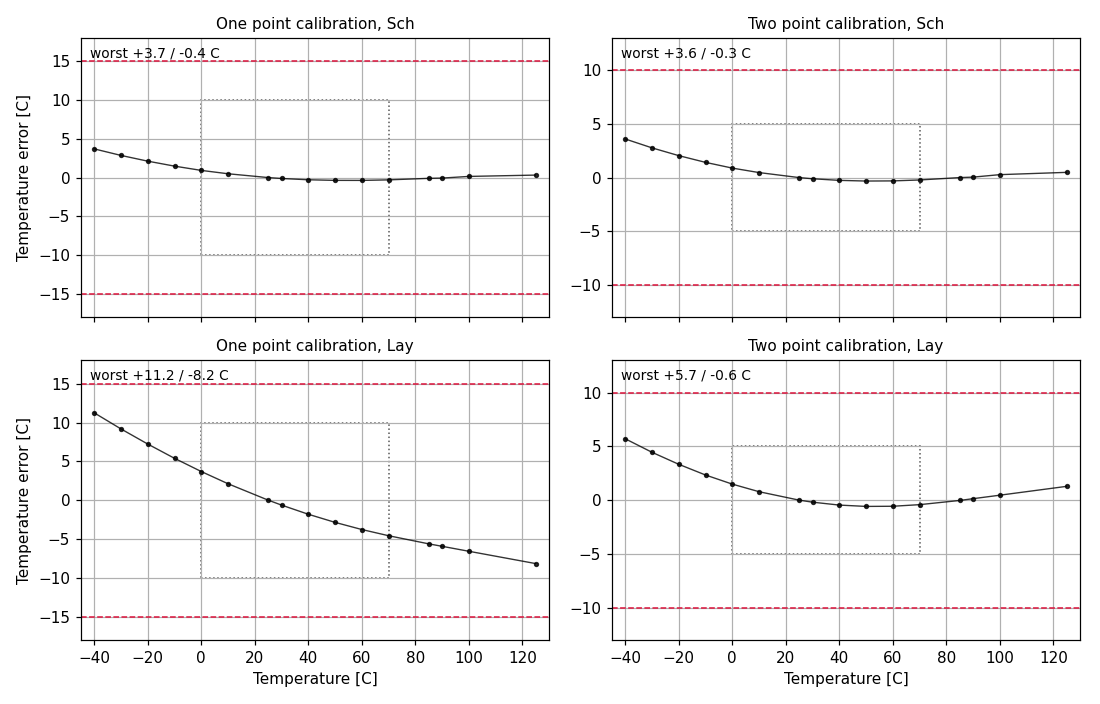
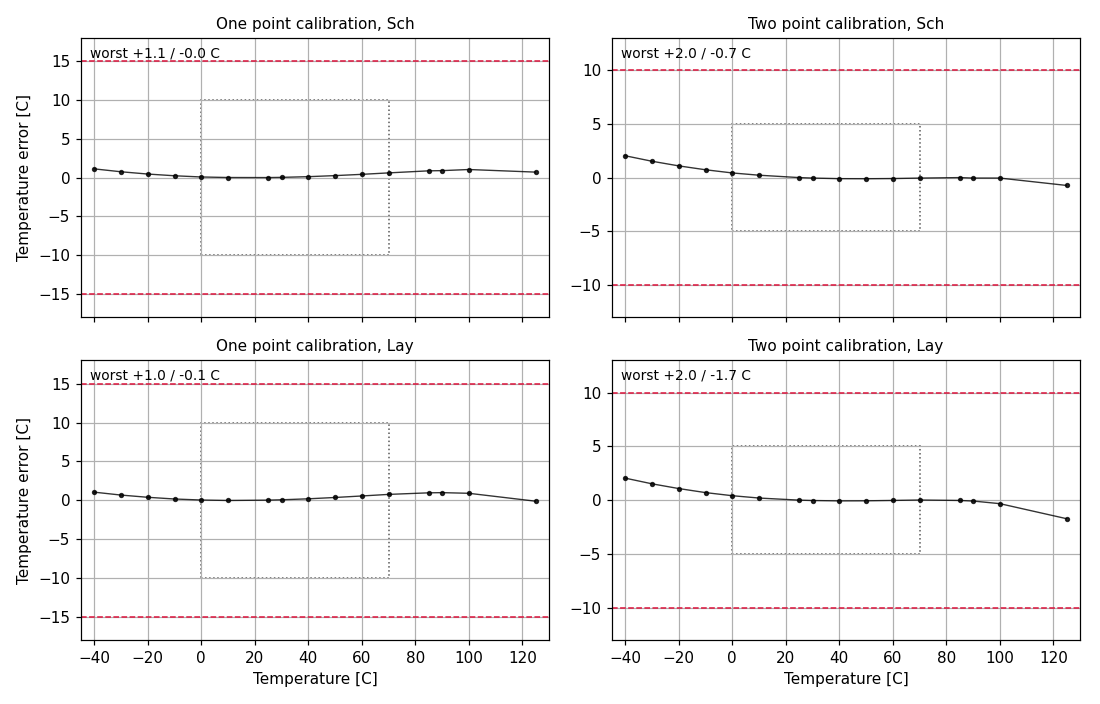
model: the comparator delay was capacitance -- fit C per view
dt regresses to < 1 ns over -40..125 C as C*(Vc/I) + delay with
delay ~ 0. The hand C (291 fF) was 28 fF short of even the
schematic; extraction adds ~66 fF more, nearly all of it wiring on
IBP_1U<0>/<2> -- the timing caps hang directly on the PTAT
distribution net, which crosses the whole tile. LELO_TEMP.FIT now
carries the fitted (C, delay) per netlist view and the
post-processing picks the view from the run name.

One-point calibration falls from +11.2/-8.2 C to about +/-1 C
typical, etc corners 19 -> 9.7/-7.0; every accuracy spec passes
except the mc 1-pt tail (-16.08 vs -15; 2-pt passes everywhere).

Also the RC extraction as a view: LayR runs the lper netlist
(fix_lper.py repairs magic's duplicate device names and pm^2 diode
areas; make layr runs the worst etc corners). Same 1.57 pF total as
the C-only lpe but distributed along the wiring: the oscillator
runs 8 % faster, flat over temperature and corner -- C_eff 354 fF
against Lay's 385 -- and that spread is the extraction uncertainty
a 1-point calibration has to carry.

Claude-Session: https://claude.ai/code/session_01Cs4HEXfVhxqxn3EPo77kKw

diff --git a/py/LELO_TEMP.py b/py/LELO_TEMP.py
@@ -45,7 +45,39 @@ import numpy as np
 
 class LELO_TEMP():
 
-    def __init__(self):
+    #- Effective oscillator capacitance and residual delay, per
+    #  netlist view, FITTED from the typical corner (GtKttTtVt) by
+    #  linear regression of the measured half period against the
+    #  model's own Vc(T)/I(T):  dt = C*(Vc/I) + delay.  The fit
+    #  explains both views to < 1 ns over -40..125 C, and the fitted
+    #  delay is ~0 -- the "unmodeled comparator delay" the error
+    #  curves suggested was capacitance all along:
+    #    * the hand value (53.8f*5 + 22f = 291 fF) was 28 fF short
+    #      of even the schematic (device junctions and comparator
+    #      input),
+    #    * extraction adds ~66 fF more, almost all of it wiring on
+    #      IBP_1U<0>/<2> -- the timing caps hang directly on the
+    #      PTAT distribution net, which crosses the whole tile.
+    #  With these, one-point calibration is within about +/-1 C on
+    #  both views (was +11.2/-8.2 C on Lay).  Silicon is the
+    #  extracted view, so "Lay" is the default.  To refit after a
+    #  layout or netlist change: regress dt against Vc/I over the
+    #  typical run's t1/t2 measurements (least squares, two terms).
+    #  The RC extraction ("LayR", make layr in sim/LELO_TEMP) holds
+    #  the SAME 1.57 pF total but distributes it along the wiring
+    #  resistance instead of lumping it on the ramp node, and loads
+    #  the oscillator ~8 % less: dt_RC/dt_C = 0.92, constant over
+    #  temperature and process corner (Ktt/Kss/Khh measured).
+    #  Silicon likely sits nearer the RC answer; "Lay" stays the
+    #  spec view, and the spread Lay..LayR (385..354 fF) is the
+    #  extraction uncertainty a 1-point calibration has to carry.
+    FIT = {
+        "Lay": (385.15e-15, -1.02e-9),
+        "LayR": (354.07e-15, -1.21e-9),
+        "Sch": (319.00e-15, -2.05e-9),
+    }
+
+    def __init__(self, view="Lay"):
 
 
         #- Bipolar size difference and current difference
@@ -57,8 +89,8 @@ class LELO_TEMP():
         #- Center of the -40C to 125C curve
         self.Tcenter = 42.5
 
-        #- Model comparator delay
-        self.cmp_delay = 0e-9
+        #- Comparator delay: the fitted residual, ~0 (see FIT)
+        self.cmp_delay = self.FIT[view][1]
 
         #- Simulation with 0.1 V across the resistor
         df = pd.read_csv(StringIO(resistor_model), sep=r"\s+")
@@ -76,10 +108,12 @@ class LELO_TEMP():
         #- Boltzmann's constatnt over the unit charge
         self.k_q = const.k/const.e
 
-        #- Parasitic capacitance
-        self.C_cmp = 22e-15
+        #- Parasitic capacitance beyond the five drawn caps: the
+        #  fitted effective C minus them (kept as a separate term so
+        #  the old C = caps + C_cmp reading still holds)
+        self.C_cmp = self.FIT[view][0] - 53.8e-15*5
 
-        #- Capacitance of the
+        #- Effective oscillator capacitance, fitted per view
         self.C = 53.8e-15*5 + self.C_cmp
 
         #- Diode voltage current factor (<https://analogicus.com/aic2026/diodes>)

diff --git a/sim/LELO_TEMP/fix_lper.py b/sim/LELO_TEMP/fix_lper.py
@@ -1,0 +1,46 @@
+#!/usr/bin/env python3
+"""Make the RC extraction (work/lpe/*_lper.spi) simulatable.
+
+Two magic/ext2spice artifacts stop ngspice from parsing it:
+ - ~19 DUPLICATE device names ("device already exists, bail out"):
+   renamed in place, second occurrence onward gets a uN suffix;
+ - diode area/perim come out in pm^2/pm (the same issue the lpe
+   netlist target fixes in tech's sim.make): scaled to m^2/m, with
+   the >1 guard making it idempotent.
+
+Both edits are idempotent, so running this twice is safe.
+"""
+import re
+import sys
+
+
+def main(path):
+    lines = open(path).readlines()
+    seen = {}
+    fixed = 0
+    for i, l in enumerate(lines):
+        if l[:1] in "RrCcXx" and l.split():
+            name = l.split()[0]
+            if name in seen:
+                seen[name] += 1
+                lines[i] = l.replace(name, f"{name}u{seen[name]}", 1)
+                fixed += 1
+            else:
+                seen[name] = 0
+        if "sky130_fd_pr__diode" in lines[i]:
+            def area(m):
+                v = float(m.group(1))
+                return f"area={v*1e-24:.6g}" if v > 1 else m.group(0)
+
+            def perim(m):
+                v = float(m.group(1))
+                return f"perim={v*1e-12:.6g}" if v > 1 else m.group(0)
+            lines[i] = re.sub(r"\barea=([0-9.eE+]+)", area, lines[i])
+            lines[i] = re.sub(r"\bperim=([0-9.eE+]+)", perim, lines[i])
+    open(path, "w").writelines(lines)
+    print(f"fix_lper: {path}: renamed {fixed} duplicate device names")
+
+
+if __name__ == "__main__":
+    main(sys.argv[1] if len(sys.argv) > 1 else
+         "../../work/lpe/LELO_TEMP_lper.spi")

diff --git a/sim/LELO_TEMP/tran.py b/sim/LELO_TEMP/tran.py
@@ -19,6 +19,10 @@ def main(name,corner=None,show=False,ax=None,redColor="red",blueColor="blue"):
   yamlfile = name + ".yaml"
   with open(yamlfile) as fi:
     obj = yaml.safe_load(fi)
+  #- the model is calibrated per netlist view (see LELO_TEMP.FIT);
+  #- the run name says which view produced these measurements
+  import os
+  view = "Lay" if "Lay" in os.path.basename(name) else "Sch"
 
   with open("replace.yaml") as fi:
     replace = yaml.safe_load(fi)
@@ -35,7 +39,7 @@ def main(name,corner=None,show=False,ax=None,redColor="red",blueColor="blue"):
     print(f"INFO: {t} {dt}")
     y.append(float(1/dt))
 
-    lt = LELO_TEMP.LELO_TEMP()
+    lt = LELO_TEMP.LELO_TEMP(view=view)
   xk = x + lt.T0
   freq = np.array(y)
 

diff --git a/sim/LELO_TEMP/plot_results.py b/sim/LELO_TEMP/plot_results.py
@@ -63,7 +63,10 @@ def process(name):
     with open(cname) as fi:
         calib = yaml.safe_load(fi)
 
-    temp = lt.KelvinFromFreq(freq, compensate=True)
+    #- the model is calibrated per netlist view (LELO_TEMP.FIT)
+    ltv = LELO_TEMP.LELO_TEMP(
+        view="Lay" if "Lay" in os.path.basename(name) else "Sch")
+    temp = ltv.KelvinFromFreq(freq, compensate=True)
     err1 = (temp + calib["one_offset"]) - xk
     err2 = (temp * calib["two_gain"] + calib["two_offset"]) - xk
 

diff --git a/sim/LELO_TEMP/calibrate.py b/sim/LELO_TEMP/calibrate.py
@@ -24,7 +24,10 @@ def main(name,corner=None,show=False,ax=None):
   with open("replace.yaml") as fi:
     replace = yaml.safe_load(fi)
 
-  lt = LELO_TEMP.LELO_TEMP()
+  #- per-view model calibration (see LELO_TEMP.FIT)
+  import os
+  view = "Lay" if "Lay" in os.path.basename(name) else "Sch"
+  lt = LELO_TEMP.LELO_TEMP(view=view)
 
   x = [25,85]
 

diff --git a/sim/LELO_TEMP/README.md b/sim/LELO_TEMP/README.md
@@ -31,69 +31,69 @@ corners reuse their process corner's calibration.
 | | | |<a href='results/tran_Lay_mc.html'>Lay_3std</a>|10.802 | 11.033 | 11.264 | |
 | | | |<a href='results/tran_Lay_supply.html'>Lay_supply</a>|10.164 | 11.061 | 11.753 | |
 ||**ind\_1p\_max** |Industrial 1 point calibration| **Spec**  | **-15.000** | **0.000** | **15.000** | **C** |
-| | | |<a href='results/tran_Sch_typical.html'>Sch_typ</a>| | 3.686 |  | |
-| | | |<a href='results/tran_Sch_etc.html'>Sch_etc</a>|2.274 | 3.747 | 12.542 | |
-| | | |<a href='results/tran_Sch_mc.html'>Sch_3std</a>|-2.193 | 4.196 | 10.584 | |
-| | | |<a href='results/tran_Lay_typical.html'>Lay_typ</a>| | 11.241 |  | |
-| | | |<a href='results/tran_Lay_etc.html'>Lay_etc</a>|2.174 | 10.954 | <span style='color:red'>**19.214**</span> | |
-| | | |<a href='results/tran_Lay_mc.html'>Lay_3std</a>|3.433 | 11.597 | <span style='color:red'>**19.762**</span> | |
-| | | |<a href='results/tran_Lay_supply.html'>Lay_supply</a>|11.184 | 11.197 | 11.241 | |
+| | | |<a href='results/tran_Sch_typical.html'>Sch_typ</a>| | 1.113 |  | |
+| | | |<a href='results/tran_Sch_etc.html'>Sch_etc</a>|0.689 | 2.138 | 9.675 | |
+| | | |<a href='results/tran_Sch_mc.html'>Sch_3std</a>|-1.568 | 3.314 | 8.196 | |
+| | | |<a href='results/tran_Lay_typical.html'>Lay_typ</a>| | 1.027 |  | |
+| | | |<a href='results/tran_Lay_etc.html'>Lay_etc</a>|0.554 | 2.094 | 9.094 | |
+| | | |<a href='results/tran_Lay_mc.html'>Lay_3std</a>|-4.234 | 3.326 | 10.886 | |
+| | | |<a href='results/tran_Lay_supply.html'>Lay_supply</a>|0.958 | 1.027 | 1.206 | |
 ||**ind\_1p\_min** |Industrial 1 point calibration| **Spec**  | **-15.000** | **0.000** | **15.000** | **C** |
-| | | |<a href='results/tran_Sch_typical.html'>Sch_typ</a>| | -0.372 |  | |
-| | | |<a href='results/tran_Sch_etc.html'>Sch_etc</a>|-8.457 | -5.056 | 0.250 | |
-| | | |<a href='results/tran_Sch_mc.html'>Sch_3std</a>|-3.057 | -0.772 | 1.513 | |
-| | | |<a href='results/tran_Lay_typical.html'>Lay_typ</a>| | -8.171 |  | |
-| | | |<a href='results/tran_Lay_etc.html'>Lay_etc</a>|<span style='color:red'>**-17.902**</span> | -8.192 | -1.105 | |
-| | | |<a href='results/tran_Lay_mc.html'>Lay_3std</a>|<span style='color:red'>**-15.352**</span> | -8.945 | -2.539 | |
-| | | |<a href='results/tran_Lay_supply.html'>Lay_supply</a>|-8.529 | -8.171 | -7.681 | |
+| | | |<a href='results/tran_Sch_typical.html'>Sch_typ</a>| | -0.006 |  | |
+| | | |<a href='results/tran_Sch_etc.html'>Sch_etc</a>|-7.027 | -4.939 | 0.237 | |
+| | | |<a href='results/tran_Sch_mc.html'>Sch_3std</a>|-5.441 | -1.507 | 2.426 | |
+| | | |<a href='results/tran_Lay_typical.html'>Lay_typ</a>| | -0.138 |  | |
+| | | |<a href='results/tran_Lay_etc.html'>Lay_etc</a>|-6.716 | -4.631 | 0.025 | |
+| | | |<a href='results/tran_Lay_mc.html'>Lay_3std</a>|<span style='color:red'>**-16.084**</span> | -3.562 | 8.961 | |
+| | | |<a href='results/tran_Lay_supply.html'>Lay_supply</a>|-0.495 | -0.138 | 0.171 | |
 ||**ind\_2p\_max** |Industrial 2 point calibration| **Spec**  | **-10.000** | **0.000** | **10.000** | **C** |
-| | | |<a href='results/tran_Sch_typical.html'>Sch_typ</a>| | 3.584 |  | |
-| | | |<a href='results/tran_Sch_etc.html'>Sch_etc</a>|-0.139 | 3.392 | 6.364 | |
-| | | |<a href='results/tran_Sch_mc.html'>Sch_3std</a>|-1.739 | 3.440 | 8.620 | |
-| | | |<a href='results/tran_Lay_typical.html'>Lay_typ</a>| | 5.706 |  | |
-| | | |<a href='results/tran_Lay_etc.html'>Lay_etc</a>|1.717 | 5.494 | 7.701 | |
-| | | |<a href='results/tran_Lay_mc.html'>Lay_3std</a>|-1.298 | 5.541 | <span style='color:red'>**12.381**</span> | |
-| | | |<a href='results/tran_Lay_supply.html'>Lay_supply</a>|5.643 | 5.657 | 5.706 | |
+| | | |<a href='results/tran_Sch_typical.html'>Sch_typ</a>| | 2.023 |  | |
+| | | |<a href='results/tran_Sch_etc.html'>Sch_etc</a>|0.244 | 1.828 | 5.308 | |
+| | | |<a href='results/tran_Sch_mc.html'>Sch_3std</a>|-3.360 | 1.971 | 7.302 | |
+| | | |<a href='results/tran_Lay_typical.html'>Lay_typ</a>| | 2.046 |  | |
+| | | |<a href='results/tran_Lay_etc.html'>Lay_etc</a>|0.560 | 1.819 | 5.245 | |
+| | | |<a href='results/tran_Lay_mc.html'>Lay_3std</a>|-3.740 | 2.427 | 8.594 | |
+| | | |<a href='results/tran_Lay_supply.html'>Lay_supply</a>|1.977 | 1.992 | 2.046 | |
 ||**ind\_2p\_min** |Industrial 2 point calibration| **Spec**  | **-10.000** | **0.000** | **10.000** | **C** |
-| | | |<a href='results/tran_Sch_typical.html'>Sch_typ</a>| | -0.327 |  | |
-| | | |<a href='results/tran_Sch_etc.html'>Sch_etc</a>|-5.069 | -0.768 | 0.112 | |
-| | | |<a href='results/tran_Sch_mc.html'>Sch_3std</a>|-0.819 | -0.390 | 0.040 | |
-| | | |<a href='results/tran_Lay_typical.html'>Lay_typ</a>| | -0.584 |  | |
-| | | |<a href='results/tran_Lay_etc.html'>Lay_etc</a>|-2.345 | -0.904 | -0.134 | |
-| | | |<a href='results/tran_Lay_mc.html'>Lay_3std</a>|-1.312 | -0.595 | 0.122 | |
-| | | |<a href='results/tran_Lay_supply.html'>Lay_supply</a>|-1.022 | -0.584 | -0.271 | |
+| | | |<a href='results/tran_Sch_typical.html'>Sch_typ</a>| | -0.738 |  | |
+| | | |<a href='results/tran_Sch_etc.html'>Sch_etc</a>|-7.062 | -1.149 | -0.203 | |
+| | | |<a href='results/tran_Sch_mc.html'>Sch_3std</a>|-2.710 | -0.956 | 0.798 | |
+| | | |<a href='results/tran_Lay_typical.html'>Lay_typ</a>| | -1.728 |  | |
+| | | |<a href='results/tran_Lay_etc.html'>Lay_etc</a>|-7.278 | -1.998 | -0.230 | |
+| | | |<a href='results/tran_Lay_mc.html'>Lay_3std</a>|-6.613 | -2.005 | 2.603 | |
+| | | |<a href='results/tran_Lay_supply.html'>Lay_supply</a>|-2.079 | -1.728 | -1.248 | |
 ||**com\_1p\_max** |Commercial 1 point calibration| **Spec**  | **-10.000** | **0.000** | **10.000** | **C** |
-| | | |<a href='results/tran_Sch_typical.html'>Sch_typ</a>| | 0.917 |  | |
-| | | |<a href='results/tran_Sch_etc.html'>Sch_etc</a>|0.430 | 2.704 | 4.272 | |
-| | | |<a href='results/tran_Sch_mc.html'>Sch_3std</a>|-0.480 | 1.353 | 3.186 | |
-| | | |<a href='results/tran_Lay_typical.html'>Lay_typ</a>| | 3.686 |  | |
-| | | |<a href='results/tran_Lay_etc.html'>Lay_etc</a>|0.070 | 3.701 | 6.710 | |
-| | | |<a href='results/tran_Lay_mc.html'>Lay_3std</a>|1.315 | 3.828 | 6.341 | |
-| | | |<a href='results/tran_Lay_supply.html'>Lay_supply</a>|3.482 | 3.686 | 3.826 | |
+| | | |<a href='results/tran_Sch_typical.html'>Sch_typ</a>| | 0.596 |  | |
+| | | |<a href='results/tran_Sch_etc.html'>Sch_etc</a>|0.007 | 2.138 | 3.241 | |
+| | | |<a href='results/tran_Sch_mc.html'>Sch_3std</a>|-0.842 | 1.494 | 3.829 | |
+| | | |<a href='results/tran_Lay_typical.html'>Lay_typ</a>| | 0.739 |  | |
+| | | |<a href='results/tran_Lay_etc.html'>Lay_etc</a>|0.073 | 2.094 | 2.902 | |
+| | | |<a href='results/tran_Lay_mc.html'>Lay_3std</a>|-0.772 | 1.242 | 3.256 | |
+| | | |<a href='results/tran_Lay_supply.html'>Lay_supply</a>|0.304 | 0.739 | 1.028 | |
 ||**com\_1p\_min** |Commercial 1 point calibration| **Spec**  | **-10.000** | **0.000** | **10.000** | **C** |
-| | | |<a href='results/tran_Sch_typical.html'>Sch_typ</a>| | -0.372 |  | |
-| | | |<a href='results/tran_Sch_etc.html'>Sch_etc</a>|-5.760 | -1.970 | 0.250 | |
-| | | |<a href='results/tran_Sch_mc.html'>Sch_3std</a>|-2.719 | -0.669 | 1.382 | |
-| | | |<a href='results/tran_Lay_typical.html'>Lay_typ</a>| | -4.582 |  | |
-| | | |<a href='results/tran_Lay_etc.html'>Lay_etc</a>|<span style='color:red'>**-10.013**</span> | -4.832 | 0.363 | |
-| | | |<a href='results/tran_Lay_mc.html'>Lay_3std</a>|-7.855 | -4.949 | -2.044 | |
-| | | |<a href='results/tran_Lay_supply.html'>Lay_supply</a>|-4.977 | -4.582 | -4.319 | |
+| | | |<a href='results/tran_Sch_typical.html'>Sch_typ</a>| | -0.006 |  | |
+| | | |<a href='results/tran_Sch_etc.html'>Sch_etc</a>|-4.224 | -2.289 | 0.237 | |
+| | | |<a href='results/tran_Sch_mc.html'>Sch_3std</a>|-2.474 | -0.701 | 1.072 | |
+| | | |<a href='results/tran_Lay_typical.html'>Lay_typ</a>| | -0.044 |  | |
+| | | |<a href='results/tran_Lay_etc.html'>Lay_etc</a>|-3.728 | -2.303 | 0.175 | |
+| | | |<a href='results/tran_Lay_mc.html'>Lay_3std</a>|-4.159 | -1.016 | 2.127 | |
+| | | |<a href='results/tran_Lay_supply.html'>Lay_supply</a>|-0.369 | -0.044 | 0.171 | |
 ||**com\_2p\_max** |Commercial 2 point calibration| **Spec**  | **-5.000** | **0.000** | **5.000** | **C** |
-| | | |<a href='results/tran_Sch_typical.html'>Sch_typ</a>| | 0.877 |  | |
-| | | |<a href='results/tran_Sch_etc.html'>Sch_etc</a>|-0.139 | 0.990 | 1.868 | |
-| | | |<a href='results/tran_Sch_mc.html'>Sch_3std</a>|-0.510 | 0.861 | 2.231 | |
-| | | |<a href='results/tran_Lay_typical.html'>Lay_typ</a>| | 1.491 |  | |
-| | | |<a href='results/tran_Lay_etc.html'>Lay_etc</a>|-0.029 | 1.296 | 2.246 | |
-| | | |<a href='results/tran_Lay_mc.html'>Lay_3std</a>|-0.455 | 1.424 | 3.302 | |
-| | | |<a href='results/tran_Lay_supply.html'>Lay_supply</a>|1.267 | 1.491 | 1.646 | |
+| | | |<a href='results/tran_Sch_typical.html'>Sch_typ</a>| | 0.426 |  | |
+| | | |<a href='results/tran_Sch_etc.html'>Sch_etc</a>|0.049 | 0.916 | 1.564 | |
+| | | |<a href='results/tran_Sch_mc.html'>Sch_3std</a>|-0.813 | 0.476 | 1.764 | |
+| | | |<a href='results/tran_Lay_typical.html'>Lay_typ</a>| | 0.413 |  | |
+| | | |<a href='results/tran_Lay_etc.html'>Lay_etc</a>|0.153 | 1.030 | 1.526 | |
+| | | |<a href='results/tran_Lay_mc.html'>Lay_3std</a>|-0.484 | 0.699 | 1.882 | |
+| | | |<a href='results/tran_Lay_supply.html'>Lay_supply</a>|0.176 | 0.413 | 0.576 | |
 ||**com\_2p\_min** |Commercial 2 point calibration| **Spec**  | **-5.000** | **0.000** | **5.000** | **C** |
-| | | |<a href='results/tran_Sch_typical.html'>Sch_typ</a>| | -0.327 |  | |
-| | | |<a href='results/tran_Sch_etc.html'>Sch_etc</a>|-1.173 | -0.687 | 0.179 | |
-| | | |<a href='results/tran_Sch_mc.html'>Sch_3std</a>|-0.862 | -0.308 | 0.245 | |
-| | | |<a href='results/tran_Lay_typical.html'>Lay_typ</a>| | -0.584 |  | |
-| | | |<a href='results/tran_Lay_etc.html'>Lay_etc</a>|-1.400 | -0.571 | 0.378 | |
-| | | |<a href='results/tran_Lay_mc.html'>Lay_3std</a>|-1.415 | -0.548 | 0.319 | |
-| | | |<a href='results/tran_Lay_supply.html'>Lay_supply</a>|-1.022 | -0.584 | -0.271 | |
+| | | |<a href='results/tran_Sch_typical.html'>Sch_typ</a>| | -0.114 |  | |
+| | | |<a href='results/tran_Sch_etc.html'>Sch_etc</a>|-1.901 | -0.587 | 0.358 | |
+| | | |<a href='results/tran_Sch_mc.html'>Sch_3std</a>|-0.631 | -0.156 | 0.319 | |
+| | | |<a href='results/tran_Lay_typical.html'>Lay_typ</a>| | -0.069 |  | |
+| | | |<a href='results/tran_Lay_etc.html'>Lay_etc</a>|-1.910 | -0.605 | 0.365 | |
+| | | |<a href='results/tran_Lay_mc.html'>Lay_3std</a>|-1.381 | -0.402 | 0.576 | |
+| | | |<a href='results/tran_Lay_supply.html'>Lay_supply</a>|-0.503 | -0.069 | 0.236 | |
 ||**freq\_min** |Frequency| **Spec**  | **1.500** | **3.000** | **4.800** | **MHz** |
 | | | |<a href='results/tran_Sch_typical.html'>Sch_typ</a>| | 1.700 |  | |
 | | | |<a href='results/tran_Sch_etc.html'>Sch_etc</a>|<span style='color:red'>**1.345**</span> | 1.700 | 2.207 | |
@@ -111,11 +111,11 @@ corners reuse their process corner's calibration.
 | | | |<a href='results/tran_Lay_mc.html'>Lay_3std</a>|2.243 | 3.263 | 4.282 | |
 | | | |<a href='results/tran_Lay_supply.html'>Lay_supply</a>|3.179 | 3.184 | 3.191 | |
 ||**FOM** |Figure Of Merit| **Spec**  | **10.000** | **40.000** | **400.000** | **nAK** |
-| | | |<a href='results/tran_Sch_typical.html'>Sch_typ</a>| | 39.619 |  | |
-| | | |<a href='results/tran_Sch_etc.html'>Sch_etc</a>|26.409 | 56.920 | 100.304 | |
-| | | |<a href='results/tran_Sch_mc.html'>Sch_3std</a>|<span style='color:red'>**-22.911**</span> | 37.986 | 98.882 | |
-| | | |<a href='results/tran_Lay_typical.html'>Lay_typ</a>| | 75.563 |  | |
-| | | |<a href='results/tran_Lay_etc.html'>Lay_etc</a>|<span style='color:red'>**7.860**</span> | 76.143 | 193.237 | |
-| | | |<a href='results/tran_Lay_mc.html'>Lay_3std</a>|<span style='color:red'>**-25.173**</span> | 71.609 | 168.390 | |
-| | | |<a href='results/tran_Lay_supply.html'>Lay_supply</a>|64.467 | 75.563 | 89.063 | |
+| | | |<a href='results/tran_Sch_typical.html'>Sch_typ</a>| | 17.747 |  | |
+| | | |<a href='results/tran_Sch_etc.html'>Sch_etc</a>|<span style='color:red'>**8.627**</span> | 57.347 | 112.072 | |
+| | | |<a href='results/tran_Sch_mc.html'>Sch_3std</a>|<span style='color:red'>**-34.759**</span> | 20.424 | 75.606 | |
+| | | |<a href='results/tran_Lay_typical.html'>Lay_typ</a>| | 17.555 |  | |
+| | | |<a href='results/tran_Lay_etc.html'>Lay_etc</a>|<span style='color:red'>**5.851**</span> | 64.320 | 136.601 | |
+| | | |<a href='results/tran_Lay_mc.html'>Lay_3std</a>|<span style='color:red'>**-23.865**</span> | 40.845 | 105.556 | |
+| | | |<a href='results/tran_Lay_supply.html'>Lay_supply</a>|11.431 | 17.555 | 26.408 | |
 
